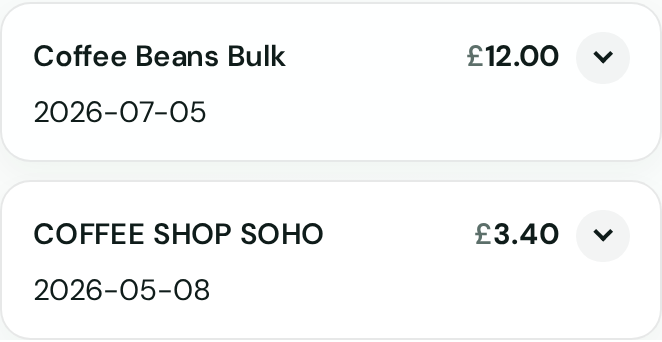
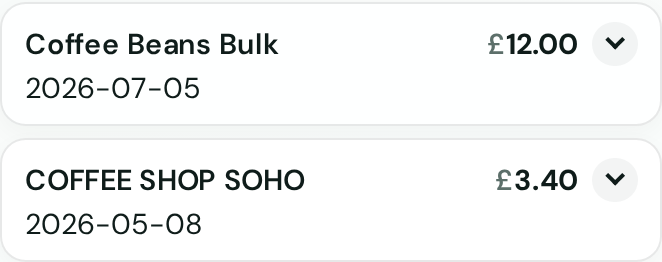
Tighten vertical spacing on collapsed Search rows
Reduce mobile row padding, gaps, and type size so collapsed results
read denser while expanded details keep a bit more room.

diff --git a/static/style.css b/static/style.css
@@ -4403,7 +4403,7 @@ body.search-page {
     body.search-page .search-tx-tbody {
         display: flex;
         flex-direction: column;
-        gap: 0.55rem;
+        gap: 0.4rem;
     }
 
     body.search-page .search-tx-tbody tr.search-tx-row {
@@ -4412,15 +4412,15 @@ body.search-page {
         grid-template-areas:
             "desc amount toggle"
             "date date date";
-        column-gap: 0.55rem;
-        row-gap: 0.3rem;
+        column-gap: 0.45rem;
+        row-gap: 0.1rem;
         align-items: center;
         margin: 0;
-        padding: 0.85rem 0.95rem;
+        padding: 0.55rem 0.7rem;
         border: 1px solid var(--line) !important;
-        border-radius: 0.95rem;
+        border-radius: 0.8rem;
         background: rgba(255, 255, 255, 0.84);
-        box-shadow: 0 6px 16px rgba(15, 40, 34, 0.04);
+        box-shadow: 0 4px 12px rgba(15, 40, 34, 0.035);
         cursor: pointer;
         -webkit-tap-highlight-color: transparent;
         transition: background 0.15s ease, box-shadow 0.15s ease;
@@ -4449,8 +4449,8 @@ body.search-page {
             "cat cat cat"
             "source source source"
             "month month month";
-        row-gap: 0.45rem;
-        padding-bottom: 0.95rem;
+        row-gap: 0.35rem;
+        padding: 0.65rem 0.75rem 0.8rem;
         box-shadow: 0 10px 24px rgba(15, 40, 34, 0.07);
     }
 
@@ -4459,28 +4459,30 @@ body.search-page {
         padding: 0;
         min-width: 0;
         white-space: normal;
-        font-size: 0.92rem;
-        line-height: 1.35;
+        font-size: 0.9rem;
+        line-height: 1.25;
         color: var(--ink);
     }
 
     body.search-page .search-tx-desc {
         grid-area: desc;
-        font-size: 1rem;
+        font-size: 0.95rem;
         font-weight: 600;
         letter-spacing: -0.01em;
         word-break: break-word;
-        padding-right: 0.2rem;
+        padding-right: 0.15rem;
+        line-height: 1.25;
     }
 
     body.search-page .search-tx-amount {
         grid-area: amount;
         justify-self: end;
         text-align: right;
-        font-size: 1.05rem;
+        font-size: 0.98rem;
         font-weight: 700;
         font-variant-numeric: tabular-nums;
         white-space: nowrap;
+        line-height: 1.25;
     }
 
     body.search-page .search-tx-amount::before {
@@ -4493,8 +4495,9 @@ body.search-page {
     body.search-page .search-tx-date {
         grid-area: date;
         color: var(--muted);
-        font-size: 0.82rem;
+        font-size: 0.75rem;
         font-variant-numeric: tabular-nums;
+        line-height: 1.2;
     }
 
     body.search-page .search-tx-toggle {
@@ -4502,8 +4505,8 @@ body.search-page {
         grid-area: toggle;
         align-items: center;
         justify-content: center;
-        width: 1.65rem;
-        height: 1.65rem;
+        width: 1.4rem;
+        height: 1.4rem;
         border-radius: 999px;
         background: rgba(15, 40, 34, 0.05);
         color: var(--muted);
